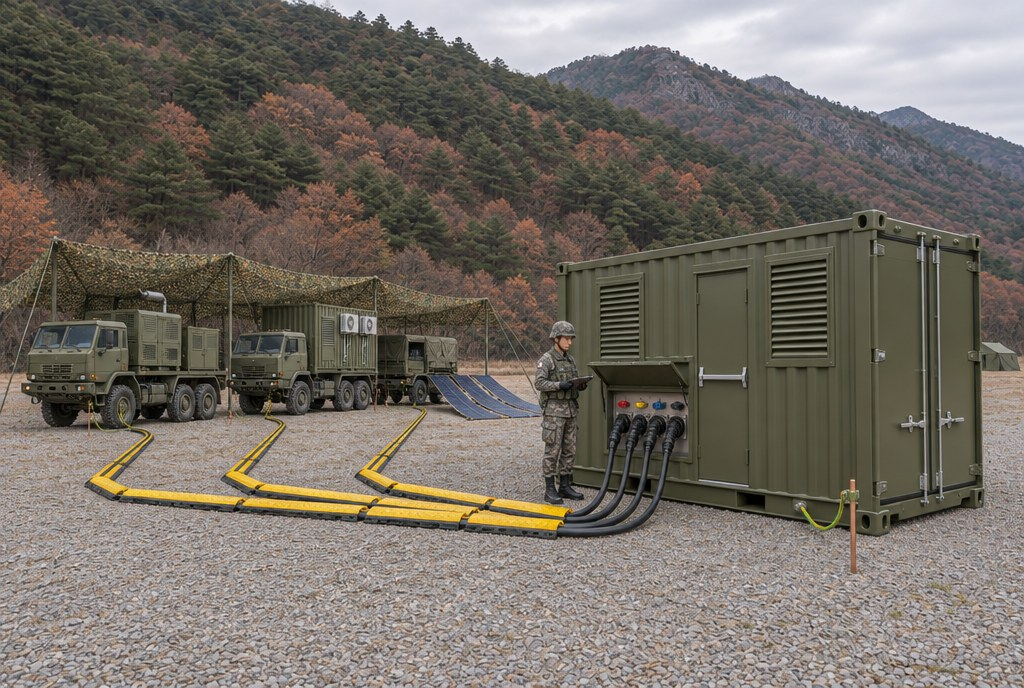
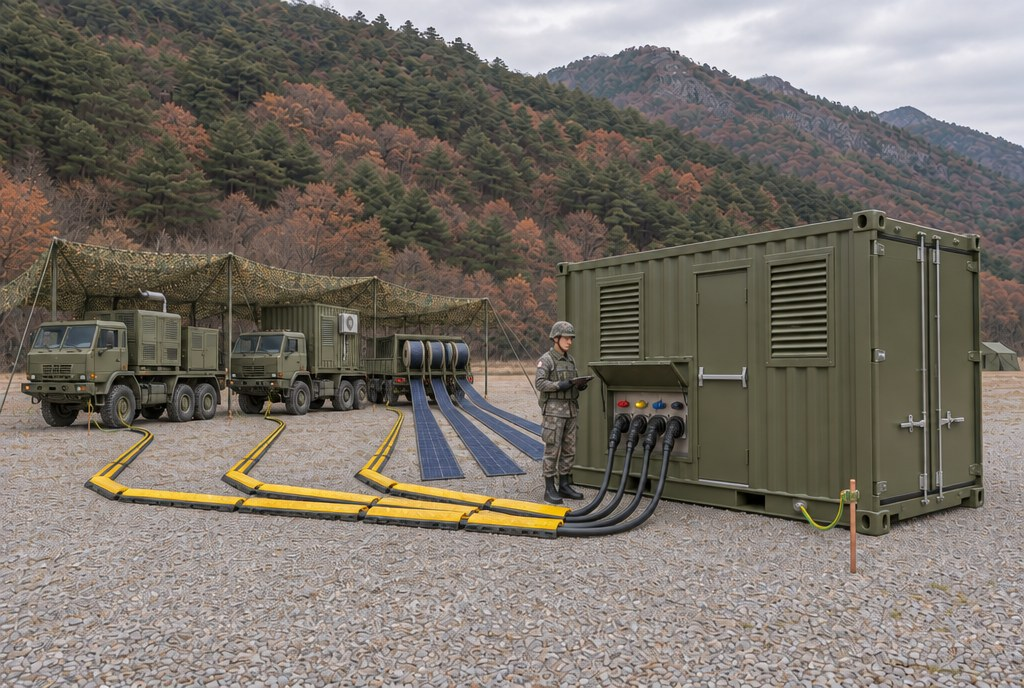
배전체계 자료: 롤러블 태양광 차량 그림 바로잡음(뒤쪽 드럼에서 뒤로 펼침), 전경의 케이블 접속 자리 수정
Claude-Session: https://claude.ai/code/session_01LA7MXdZMW4gUQZvBygoRnA

diff --git a/mobile_ems/docs/ppt/build_pd_deck.js b/mobile_ems/docs/ppt/build_pd_deck.js
@@ -50,7 +50,7 @@ D.cover({ kicker: "IFPS · Integrated Field Power System", title: "이동형 배
 { const s = page(1, "작전지 전개 전경", "발전 장비, TPCS, 배전 및 변압체계, 환망과 부하가 한 부지에 전개된 모습",
     "작전지에 전개한 전체 모습입니다. 발전 장비와 TPCS, 배전망이 한 체계로 이어집니다.");
   picTable(s, "pd2_site", "작전지 전개 전경: 왼쪽은 전원 차량과 TPCS, 가운데는 ⑥ 컨테이너, 오른쪽은 환망과 시설 부하", [["구분", "장비", "역할"], [
-    ["① 복합전력", "디젤 발전기와 ESS 를 실은 차량", "기저 전원, 계통 형성"], ["② ESS", "이동형 에너지저장장치 차량", "저소음 공급, 충전과 방전"], ["③ 태양광", "펼침식 태양광 차량", "주간 발전, 연료 절감"],
+    ["① 복합전력", "디젤 발전기와 ESS 를 실은 차량", "기저 전원, 계통 형성"], ["② ESS", "이동형 에너지저장장치 차량", "저소음 공급, 충전과 방전"], ["③ 태양광", "롤러블 태양광 차량(뒤쪽 드럼에서 뒤로 펼침)", "주간 발전, 연료 절감"],
     ["④ 수소", "연료전지와 수소 저장 차량", "저소음 장시간 공급"], ["⑤ TPCS", "통제 쉘터", "전원과 부하의 통합 감시 및 통제"], ["⑥ 배전 및 변압", "20ft 컨테이너 1대", "전원 접속, 380 V 모선, 환망 급전"],
     ["환망과 부하", "구간분전함, 배전체계, 시설", "부하 직전 배전, 고장 구간 분리"]], [22, 42, 36]],
     [["그림의 성격", ["장비 수량과 배치는 예시. 실제 수량은 임무와 부지에 따라 정하고 TPCS 가 장치 ID 를 읽어 화면을 스스로 구성"]]]); }

diff --git a/mobile_ems/CLAUDE.md b/mobile_ems/CLAUDE.md
@@ -166,3 +166,4 @@
 - 주둔지의 한전 연결(Rev72, 사용자 질문 '주둔지에서 한전망은 어디로 연결하는지'): 한전 22.9 kV → 주둔지 수전 설비 → 고압 분기 → ⑥ 컨테이너 끝면의 고압 인입부 → 변압기 → 380 V 모선(`pd2_grid` 연결도, `pd2_garr` 설치 예). 분기 방법(기존 고압반 예비 회로 또는 분기 개폐기 신설)은 자료에 없어 '설계 확정 필요'. 주둔지 기존 계통의 배선은 바꾸지 않는다고 적는다.
 - 단선 결선도는 도면 양식으로(Rev72, 사용자 요구 '결선도도 더 멋지고 프로페셔널하게'): `pd_figs.js` 의 `sldPro` — 도면 틀과 구역 눈금, 차단기 · 변류기 · 변압기 기호, 전압별 선 색, 범례, 주요 정격표(받은 자료 / 계산값 / 검토 의견 구분), 설계 확정 필요 항목, 표제란(리비전은 둘째 인자: `node docs/ppt/pd_figs.js <폴더> <Rev>` — 리비전을 올리면 다시 그려 `pd2_sld.jpg` 를 바꾼다). 자료에는 한 쪽 전체 폭으로 싣는다. 상자와 화살표만 있는 약식 그림으로 되돌리지 않는다.
 - 배전체계 자료의 전경 그림(Rev72, 사용자 지적 '전력망만 보이지 않게, 발전 장비와 TPCS 도 현실적으로'): `pd2_site`(작전지 전경: 전원 차량 4종 · TPCS 쉘터 · ⑥ 컨테이너 · 환망과 천막), `pd2_park`(전원 차량 → 컨테이너 **옆면 저압 접속반**), `pd2_tpcs`(통제 쉘터, 뒤에 ⑥ 과 전원 차량). 전원 차량의 케이블을 끝면 고압 인입부(붉은 엘보 접속재)에 꽂은 그림은 기술적으로 틀리므로 쓰지 않는다(한 번 그렇게 나와 다시 만들었다). 차량 모양은 화면의 장비 그림(`static/photos`)을 글로 묘사해 맞춘다(그림 파일을 외부로 보내지 않는다).
+- 롤러블 태양광 그림(Rev72, 사용자 지적 두 번 '이미지가 잘못됐다'): 패널은 차량 **뒤쪽 롤 드럼에서 차량 뒤로** 풀려 나와야 한다. 운전석 앞이나 차량 옆에서 나오는 그림, 드럼과 패널이 이어지지 않은 그림은 틀린 것이다. 생성 그림은 받아서 넣기 전에 이 점과 케이블이 꽂힌 자리(전원 차량 → 옆면 저압 접속반)를 확대해 확인한다.
